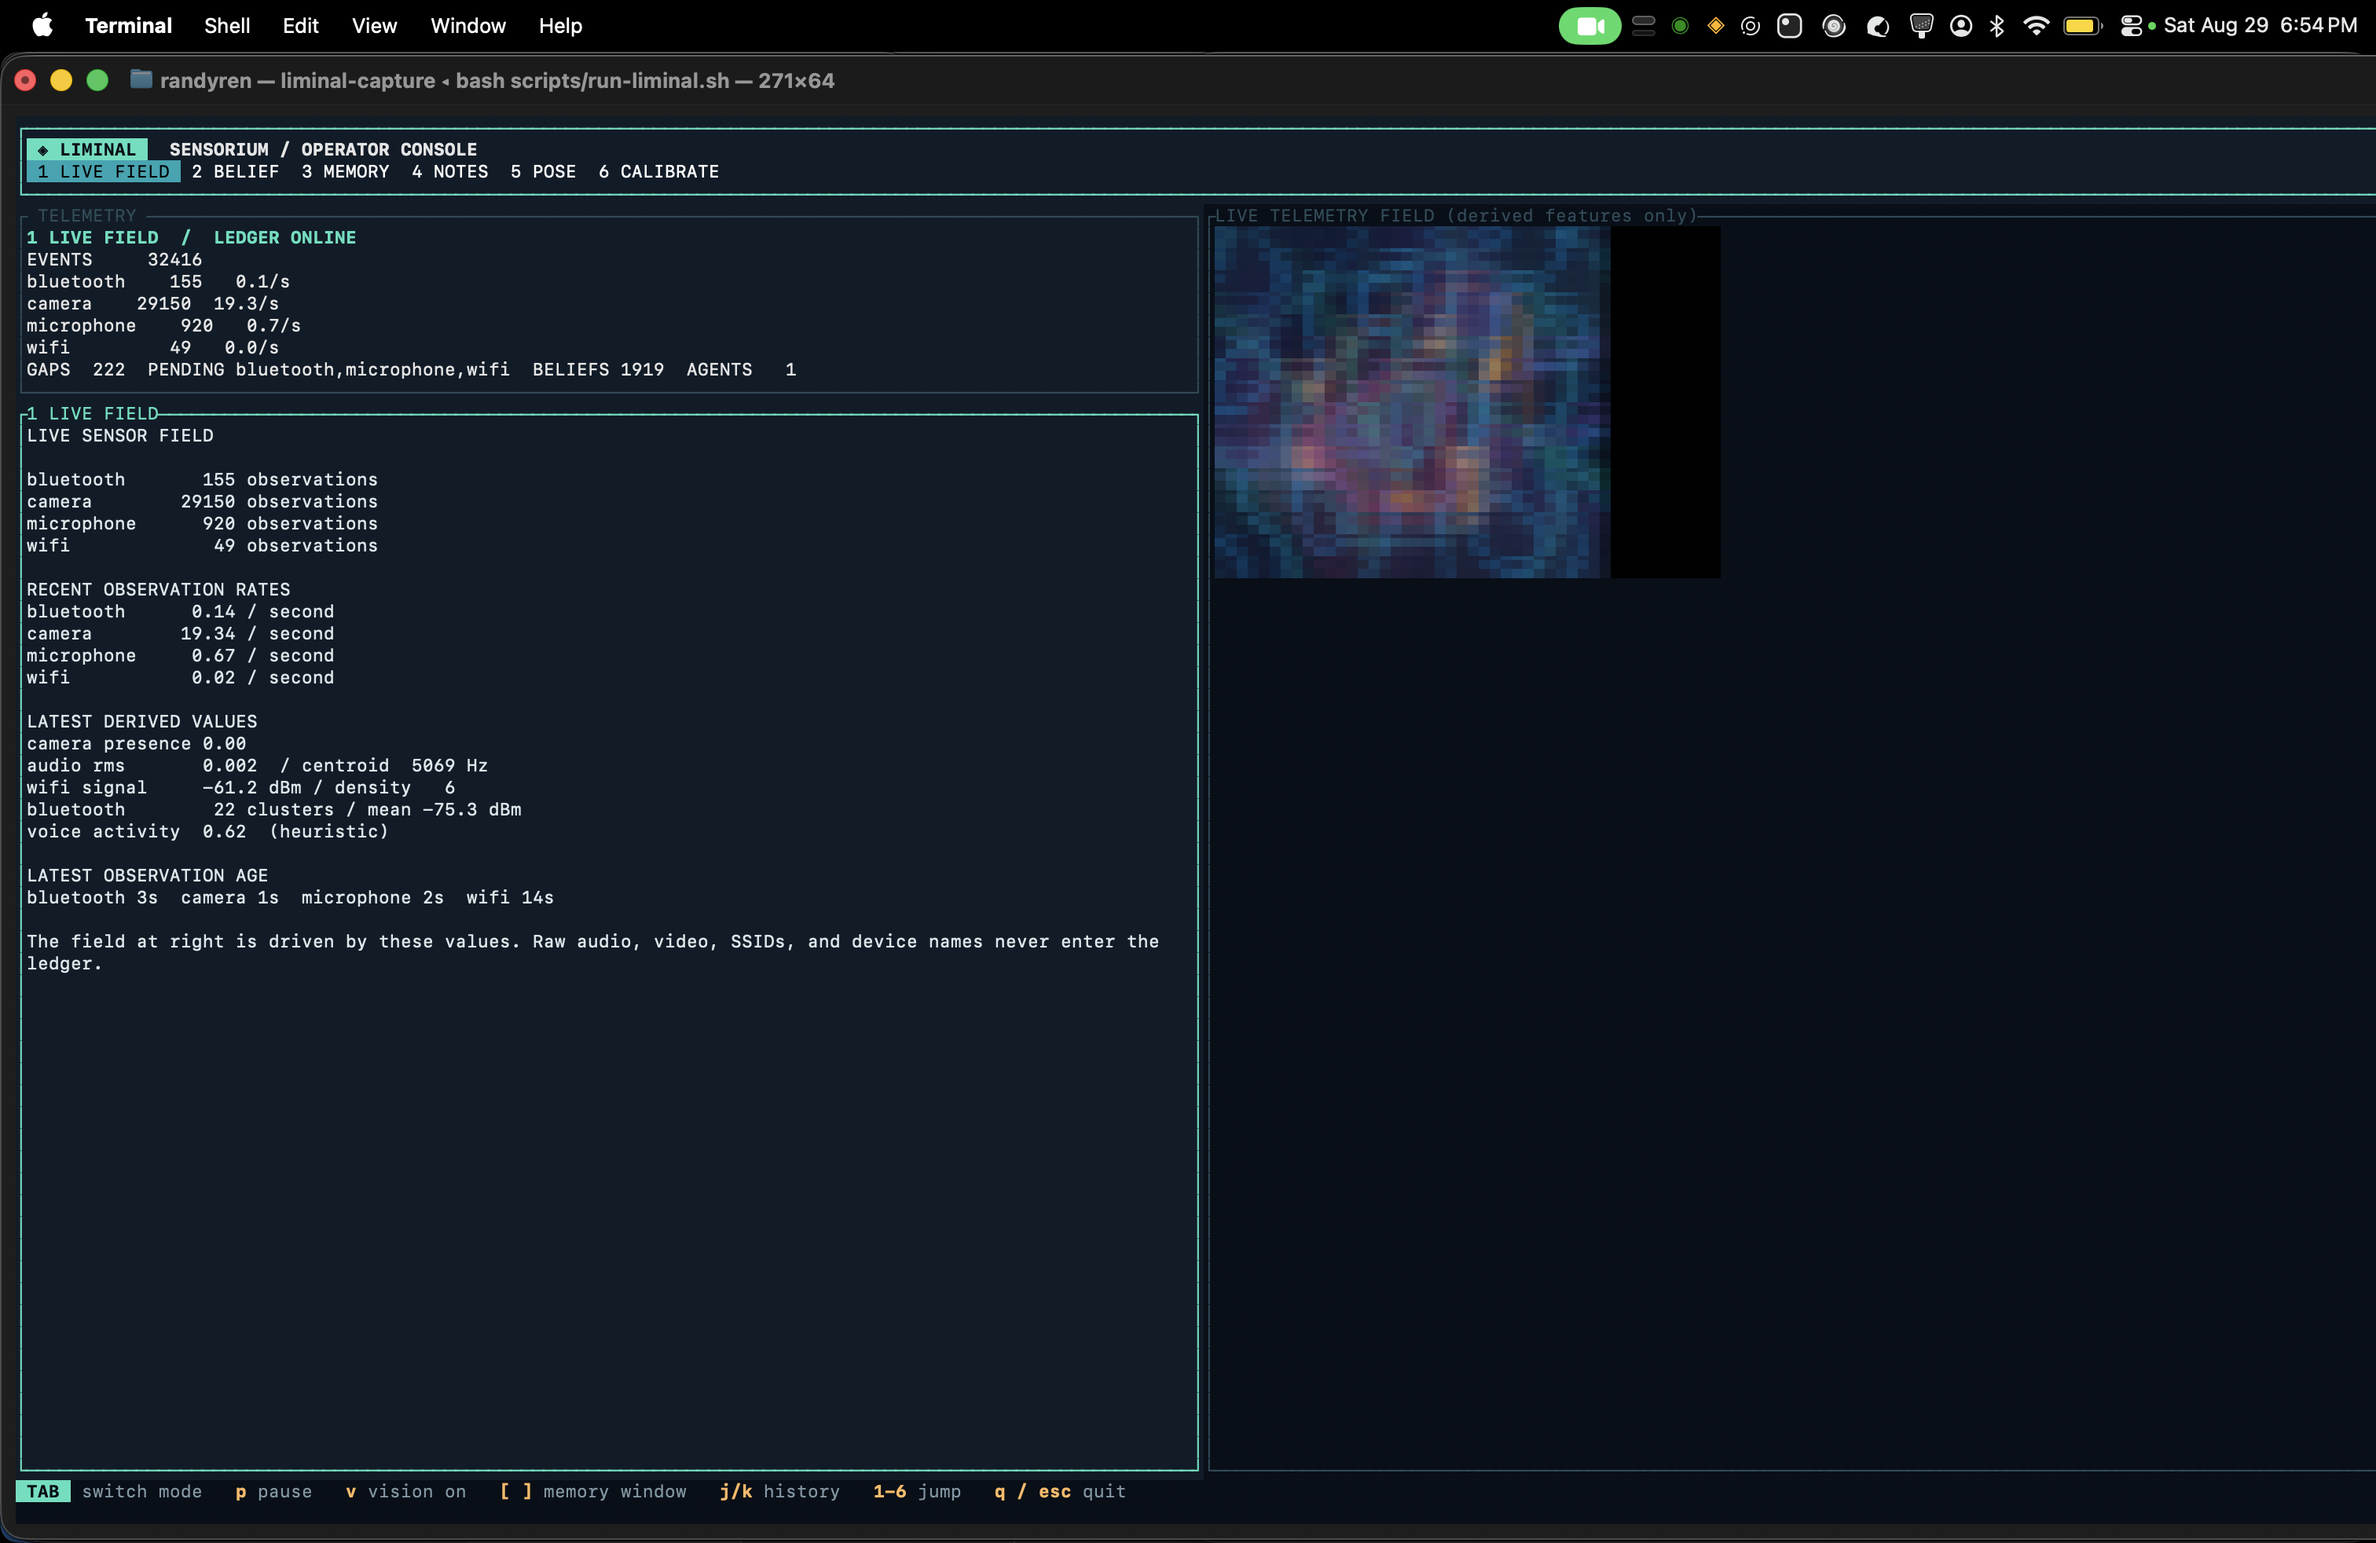
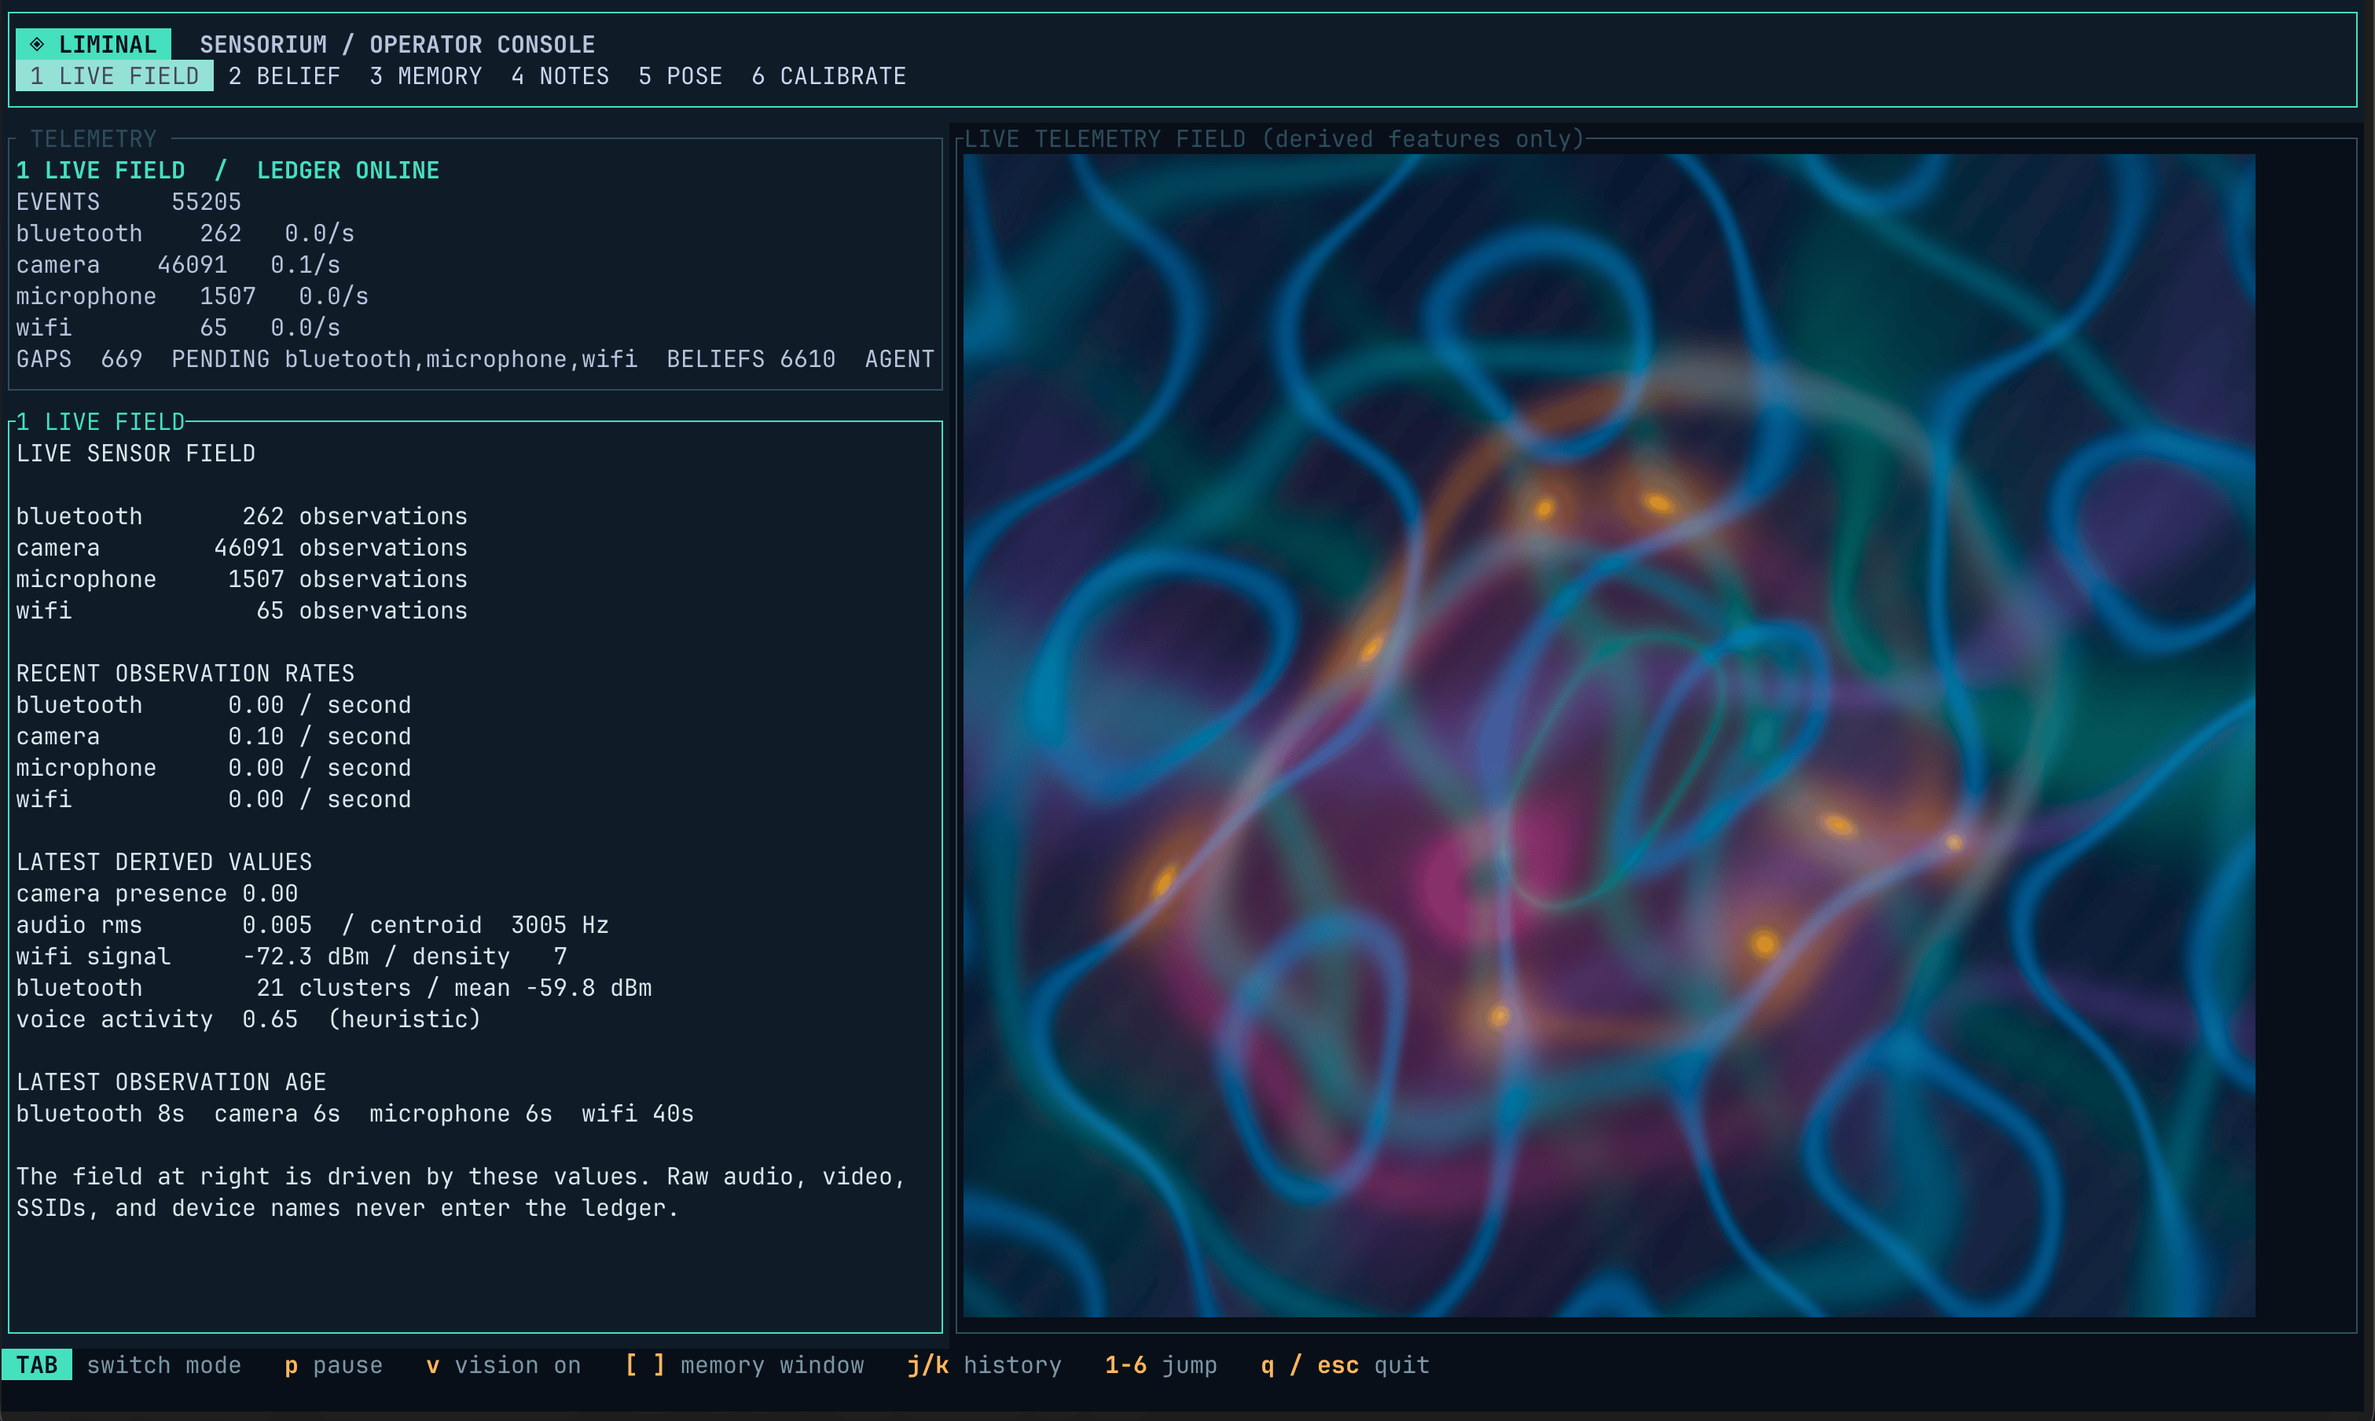
Unblock TUI startup and refresh live screenshot

diff --git a/docs/screenshots/README.md b/docs/screenshots/README.md
@@ -6,13 +6,13 @@ ledger, not a camera frame, raw audio capture, or synthetic demo render.
 Mode-specific captures are omitted until they can be made without unrelated
 desktop content.
 
-Capture date: 2026-08-29 (America/Vancouver)
+Capture date: 2026-08-30 (America/Vancouver)
 
-Refreshed capture source: `eb4b9ea` (`Refresh live TUI documentation and
-launcher reliability`). The live-field image was captured from the equivalent
-working tree immediately before that commit and committed as an artifact in
[1 lines of base64/hex data omitted]
-Terminal: macOS Terminal, halfblock compatibility renderer.
+Refreshed capture source: user-supplied Desktop capture from the working tree
+at `7e93998` (`Harden runtime supervision and parallelize mutation
[1 lines of base64/hex data omitted]
+Terminal: macOS Terminal, halfblock compatibility renderer; fully loaded live
+field with derived sensor values visible.
 
 | Image | Surface | Launch / evidence | Sensor state | Live/demo | Raw media |
 |---|---|---|---|---|---|
